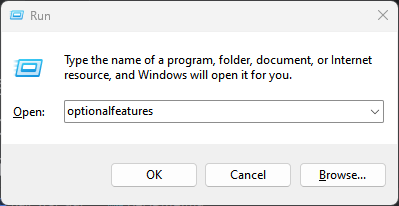
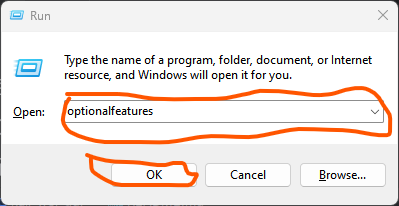
enable wsl

Changed region(s): [[0.1504, 0.4078, 0.9925, 0.7282], [0.2105, 0.7282, 0.5113, 0.932]]

diff --git a/README.md b/README.md
@@ -4,8 +4,12 @@ Voodoo magic to run Kali Linux desktop panels and gui apps on Windows 10
 ### Installation: 
 <ol>
    <li>
-      Open run and type ```optionalfeatures``` and click on ok
+      Open run and type ```optionalfeatures``` and click on ok <br>
       <img src="src/optionalfeatures.png" alt="optional features">
+   </li>
+    <li>
+      Enable WSL<br>
+      <img src="src/enable_wsl.png" alt="optional features">
    </li>
 </ol>
 1. Start kali in Windows 10 as normal, unprivileged user  
